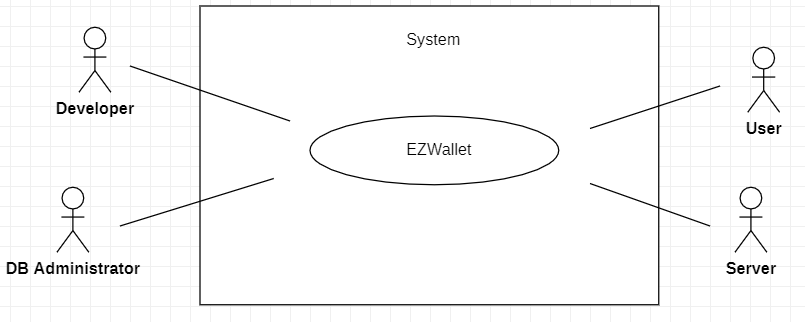
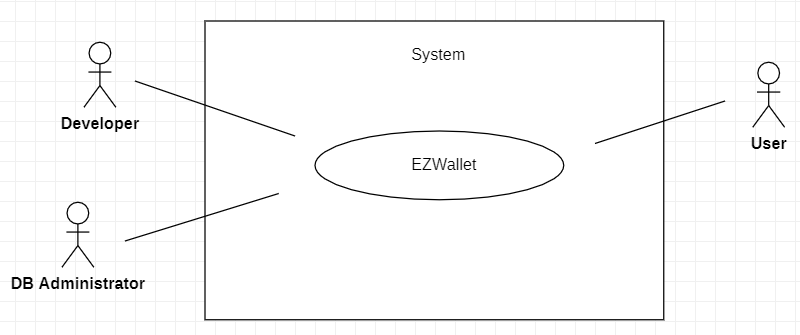
added F/NF requirements

diff --git a/RequirementsDocumentV1.md b/RequirementsDocumentV1.md
@@ -40,9 +40,8 @@ EZWallet (read EaSy Wallet) is a software application designed to help individua
 | ----------------- |:-----------:|
 |   StakeHolder1: Owner    |    investor, owns the product     |
 |   StakeHolder2: User    |    person interested in charting its expenses      |
-|   StakeHolder5: DB Administrator    |    person in charge of managing the DB     |
-|   StakeHolder6: Developer   | person in charge of developing the software product  |
-|   StakeHolder7: Server   | TODO |
+|   StakeHolder3: DB Administrator    |    person in charge of managing the DB     |
+|   StakeHolder4: Developer   | person in charge of developing the software product  |
 
 # Context Diagram and interfaces
 
@@ -55,7 +54,6 @@ EZWallet (read EaSy Wallet) is a software application designed to help individua
 |   Developer     | PC | Developing Suite Tools (VSCode, NodeJS, ...) |
 |   DB Administrator     | PC | MongoDB Graphical User Interface |
 |   User     | Smartphone/PC | Graphical User Interface (to be defined) |
-|   Server     | Internet connection | NodeJS API |
 
 # Stories and personas
 - Persona 1: High income professional, male, married, with no children, 40 yo
@@ -75,27 +73,30 @@ EZWallet (read EaSy Wallet) is a software application designed to help individua
 
 ## Functional Requirements
 
-\<In the form DO SOMETHING, or VERB NOUN, describe high level capabilities of the system>
-
-\<they match to high level use cases>
-
 | ID        | Description  |
 | ------------- |:-------------:| 
-|  FR1     |  |
-|  FR2     |   |
-| FRx..  | | 
+|  F1     | Authorize and Authenticate |
+|  F1.1     | Log In |
+|  F1.2  | Log Out |
+|  F1.3	|	Create Account	|
+|  F2 | Manage Expenses |
+|  F2.1 | Manage Categories |
+|  F2.1.1| Create Categories |
+|  F2.1.2| Get Categories |
+|  F2.2 | Manage Transaction |
+|  F2.2.1| Create Transaction |
+|  F2.2.2| Get Transaction |
+|  F2.2.3| Delete Transaction |
+|  F2.3 | Manage Labels |
+|  F2.3.1| Get Labels |
 
 ## Non Functional Requirements
 
-\<Describe constraints on functional requirements>
-
 | ID        | Type (efficiency, reliability, ..)           | Description  | Refers to |
 | ------------- |:-------------:| :-----:| -----:|
-|  NFR1     |   |  | |
-|  NFR2     | |  | |
-|  NFR3     | | | |
-| NFRx .. | | | | 
-
+|  NFR1     | Efficiency | Each function less than ½ sec | F1,F2 |
+|  NFR2     | Portability | Currency is Euro | F2.2,F2.3 |
+|  NFR3     | Usability | Training Time 1 Hour, Average Number of Errors less than 2 | F1,F2 |
 
 # Use case diagram and use cases
 
@@ -105,45 +106,186 @@ EZWallet (read EaSy Wallet) is a software application designed to help individua
 
 
 \<next describe here each use case in the UCD>
-### Use case 1, UC1
-| Actors Involved        |  |
+### Use case 1, UC1 (Login/Register)
+| Actors Involved        | User |
 | ------------- |:-------------:| 
-|  Precondition     | \<Boolean expression, must evaluate to true before the UC can start> |
-|  Post condition     | \<Boolean expression, must evaluate to true after UC is finished> |
-|  Nominal Scenario     | \<Textual description of actions executed by the UC> |
-|  Variants     | \<other normal executions> |
-|  Exceptions     | \<exceptions, errors > |
+|  Precondition     | <u>User</u> opened the application |
+|  Post condition     | <u>User</u> is logged |
+|  Nominal Scenario     | <u>User</u>, initially on the page, decides if register for the first time or, if already registered, to login. |
+|  Variants     | <u>User</u> is not registered, <u>User</u> is already registered  |
+|  Exceptions     | wrong username or password |
 
 ##### Scenario 1.1 
 
-\<describe here scenarios instances of UC1>
-
-\<a scenario is a sequence of steps that corresponds to a particular execution of one use case>
-
-\<a scenario is a more formal description of a story>
-
-\<only relevant scenarios should be described>
-
-| Scenario 1.1 | |
+| Scenario 1.1 | Login |
 | ------------- |:-------------:| 
-|  Precondition     | \<Boolean expression, must evaluate to true before the scenario can start> |
-|  Post condition     | \<Boolean expression, must evaluate to true after scenario is finished> |
+|  Precondition     | <u>User</u> is registered and not logged in |
+|  Post condition     | <u>User</u> is Logged In and can access his account |
 | Step#        | Description  |
-|  1     |  |  
-|  2     |  |
-|  ...     |  |
+|  1     | <u>User</u> enters username and password. |  
+|  2     | <u>User</u> confirms the login. |
 
 ##### Scenario 1.2
 
-##### Scenario 1.x
+| Scenario 1.2 | Register |
+| ------------- |:-------------:| 
+|  Precondition     | <u>User</u> is not registered |
+|  Post condition     | <u>User</u> is registered and logged in |
+| Step#        | Description  |
+|  1     | <u>User</u> enters username and password. |  
+|  2     | System confirm the registration. |
+|  3     | <u>User</u> enters username and password. |  
+|  4     | <u>User</u> confirms the login. |
 
-### Use case 2, UC2
-..
+##### Scenario 1.3
 
-### Use case x, UCx
-..
+| Scenario 1.3 | Wrong Username/Password |
+| ------------- |:-------------:| 
+|  Precondition     | <u>User</u> is not registered or not logged in |
+|  Post condition     | <u>User</u> is not registered or not logged in |
+| Step#        | Description  |
+|  1     | <u>User</u> enters username and password. |  
+|  2     | Username or password are wrong. |
+|  3     | System asks again the data. |
 
+### Use case 2, UC2 Logout
+| Actors Involved        | User |
+| ------------- |:-------------:| 
+|  Precondition     | <u>User</u> is already logged in |
+|  Post condition     | <u>User</u> is logged out |
+|  Nominal Scenario     | <u>User</u>, initially logged in, decides to logout. |
+|  Variants     |  |
+|  Exceptions     |  |
 
+##### Scenario 2.1
+
+| Scenario 2.1 | Logout |
+| ------------- |:-------------:| 
+|  Precondition     | <u>User</u> is already logged in |
+|  Post condition     | <u>User</u> is logged out |
+| Step#        | Description  |
+|  1     | <u>User</u> clicks the logout button. |  
+|  2     | System confirms the logout. |
+
+### Use case 3, UC3 (Get Information)
+
+| Actors Involved        | User |
+| ------------- |:-------------:| 
+|  Precondition     | <u>User</u> is logged in and wants to see all categories/labels/transaction inserted. |
+|  Post condition     | <u>User</u> retrieves the information he wants. |
+|  Nominal Scenario     | <u>User</u>, initially logged in on the page, wants to find information by clicking on the relative button. |
+|  Variants     | <u>User</u> wants to see all categories.<br> <u>User</u> wants to see all labels. <br> <u>User</u> wants to see all transaction.  |
+|  Exceptions     |  |
+
+##### Scenario 3.1 
+
+| Scenario 3.1 | Find Categories |
+| ------------- |:-------------:| 
+|  Precondition     | <u>User</u> is logged in and clicked "show categories" button. |
+|  Post condition     | All categories are displayed. |
+| Step#        | Description  |
+|  1     | <u>User</u> clicks the "show categories" button. |
+|  2     | System shows the result to the <u>User</u>. |
+
+##### Scenario 3.2
+
+| Scenario 3.2 | Find Labels |
+| ------------- |:-------------:| 
+|  Precondition     | <u>User</u> is logged in and clicked "show labels" button. |
+|  Post condition     |  All labels are displayed. |
+| Step#        | Description  |
+|  1     | <u>User</u> clicks the "show labels" button. |
+|  2     | System shows the result to the <u>User</u>. |
+
+##### Scenario 3.3
+
+| Scenario 3.3 | Find Transaction |
+| ------------- |:-------------:| 
+|  Precondition     | <u>User</u> is logged in and clicked "show transaction" button. |
+|  Post condition     |  All transaction are displayed. |
+| Step#        | Description  |
+|  1     | <u>User</u> clicks the "show transaction" button. |
+|  2     | System shows the result to the <u>User</u>. |
+
+### Use case 4, UC4 (Add Information)
+
+| Actors Involved        | User |
+| ------------- |:-------------:| 
+|  Precondition     | <u>User</u> is logged in and want to Add specific information. |
+|  Post condition     | <u>User</u> Adds the information he wants. |
+|  Nominal Scenario     | <u>User</u>, initially logged in on the page, wants to Add something by clicking on the relative button. |
+|  Variants     | <u>User</u> wants to Add a category.<br> <u>User</u> wants to Add a transaction.  |
+|  Exceptions     | Category or Transaction are already present. |
+
+##### Scenario 4.1 
+| Scenario 4.1 | Add Category |
+| ------------- |:-------------:| 
+|  Precondition     | <u>User</u> is logged in and clicked "add category" button. |
+|  Post condition     | A Category is added successfully. |
+| Step#        | Description  |
+|  1     | <u>User</u> enters the category that he wants to add. |  
+|  2     | <u>User</u> clicks the "add category" button. |
+|  3     | System confirms the creation to the <u>User</u>. |
+
+##### Scenario 4.2
+| Scenario 4.2 | Add Transaction |
+| ------------- |:-------------:| 
+|  Precondition     | <u>User</u> is logged in and clicked "add transaction" button. |
+|  Post condition     | A transaction is added successfully. |
+| Step#        | Description  |
+|  1     | <u>User</u> enters the transaction that he wants to Add. |  
+|  2     | <u>User</u> clicks the "add transaction" button. |
+|  3     | System confirms the creation. |
+
+##### Scenario 4.3
+| Scenario 4.3 | Failure in Creation of Category |
+| ------------- |:-------------:| 
+|  Precondition     | <u>User</u> is logged in and clicked "add category" button. |
+|  Post condition     | Nothing is added. |
+| Step#        | Description  |
+|  1     | <u>User</u> enters the category  that he wants to add. |  
+|  2     | <u>User</u> clicks the "add category" button. |
+|  3     | System fails on already existing category. |
+
+##### Scenario 4.4
+| Scenario 4.4 | Failure in Creation of Transaction |
+| ------------- |:-------------:| 
+|  Precondition     | <u>User</u> is logged in and clicked "add transaction" button. |
+|  Post condition     | Nothing is added. |
+| Step#        | Description  |
+|  1     | <u>User</u> enters the transaction that he wants to add. |  
+|  2     | <u>User</u> clicks the "add transaction" button. |
+|  3     | System fails on already existing transaction. |
+
+### Use case 5, UC5 (Delete Information)
+
+| Actors Involved        | User |
+| ------------- |:-------------:| 
+|  Precondition     | <u>User</u> is logged in and want to delete an information. |
+|  Post condition     | <u>User</u> deletes the information he wants. |
+|  Nominal Scenario     | <u>User</u>, initially logged in on the page, wants to delete something by clicking on the relative button. |
+|  Variants     | <u>User</u> wants to delete a transaction. |
+|  Exceptions     | Transaction not found. |
+
+##### Scenario 5.1
+| Scenario 5.1 | Delete a Transaction |
+| ------------- |:-------------:| 
+|  Precondition     | <u>User</u> is logged in and clicked "delete transaction" button. |
+|  Post condition     | Transaction is deleted. |
+| Step#        | Description  |
+|  1     | <u>User</u> enters the transaction id that he wants to delete. |  
+|  2     | <u>User</u> clicks the "delete transaction" button. |
+|  3     | System confirms the deletion. |
+
+##### Scenario 5.2
+| Scenario 5.2 | Transaction Not Found |
+| ------------- |:-------------:| 
+|  Precondition     | <u>User</u> is logged in and clicked "delete transaction" button. |
+|  Post condition     | Transaction is not deleted. |
+| Step#        | Description  |
+|  1     | <u>User</u> enters the transaction id that he wants to delete. |  
+|  2     | <u>User</u> clicks the "delete transaction" button. |
+|  3     | System fails on missing transaction. |
 
 # Glossary
 

diff --git a/TimeSheet.md b/TimeSheet.md
@@ -11,7 +11,7 @@ These figures will not be used to evaluate neither the project nor the team, the
 | Week | requirement engineering | design | coding | unit testing | integration testing | acceptance testing | management | git maven |
 |:-----------:|:--------:|:-----------:|:-----------:|:----------:|:------------:|:---------------:|:-------------:|:--------------:|
 | mar 27 - apr 2 | | | | | | | | |
-| apr 3 - 9 | 6 | | | | | | | |
+| apr 3 - 9 | 21 | | | | | | | |
 | apr 10 - 16| | | | | | | | | 
 | apr 17 - 23| | | | | | | | | 
 | apr 24 - apr 30 | | | | | | | | | 

diff --git a/EstimationV1.md b/EstimationV1.md
@@ -21,8 +21,8 @@ Consider the EZWallet  project in CURRENT version (as received by the teachers),
 ### 
 |         component name    | Estimated effort (person hours)   |             
 | ----------- | ------------------------------- | 
-|requirement document    | |
-| GUI prototype ||
+|requirement document    | 16 |
+| GUI prototype | 10 |
 |design document ||
 |code ||
 | unit tests ||
